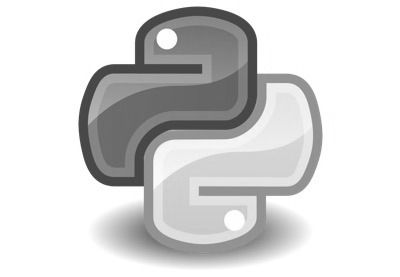
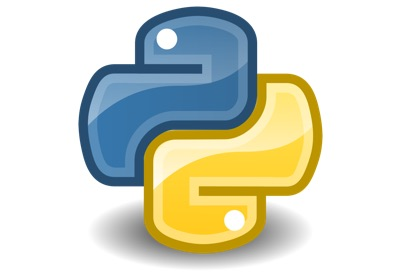
Work on docs

diff --git a/README.md b/README.md
@@ -21,19 +21,15 @@ If you have an idea for how to automate these as part of the program, PRs are we
 
 Start with an image like the one below:
 
-![full color image](images/python-full-color.jpg)
-
-Then [make it grayscale](https://onlinejpgtools.com/convert-jpg-to-grayscale), like so:
-
-![grayscale image](images/python.jpg)
+![full color image](images/python.jpg)
 
 [Pixelate it](https://pinetools.com/pixelate-effect-image) (here I used 8-wide pixels):
 
-![Pixelated grayscale image](images/python-pixelated.jpg)
+![Pixelated image](images/python-pix.jpg)
 
 [Resize it](https://onlinejpgtools.com/resize-jpg) so the large pixels are now 1 pixel (so this 400 pixel wide image is resized to 50 wide in our case, since we used 8-wide pixels):
 
-![Small pixelated grayscale image](images/python-pix-small.jpg)
+![Small pixelated image](images/python-pix-small.jpg)
 
 In fact, you may want to change the aspect ratio of the image since courier characters aren't square.
 
